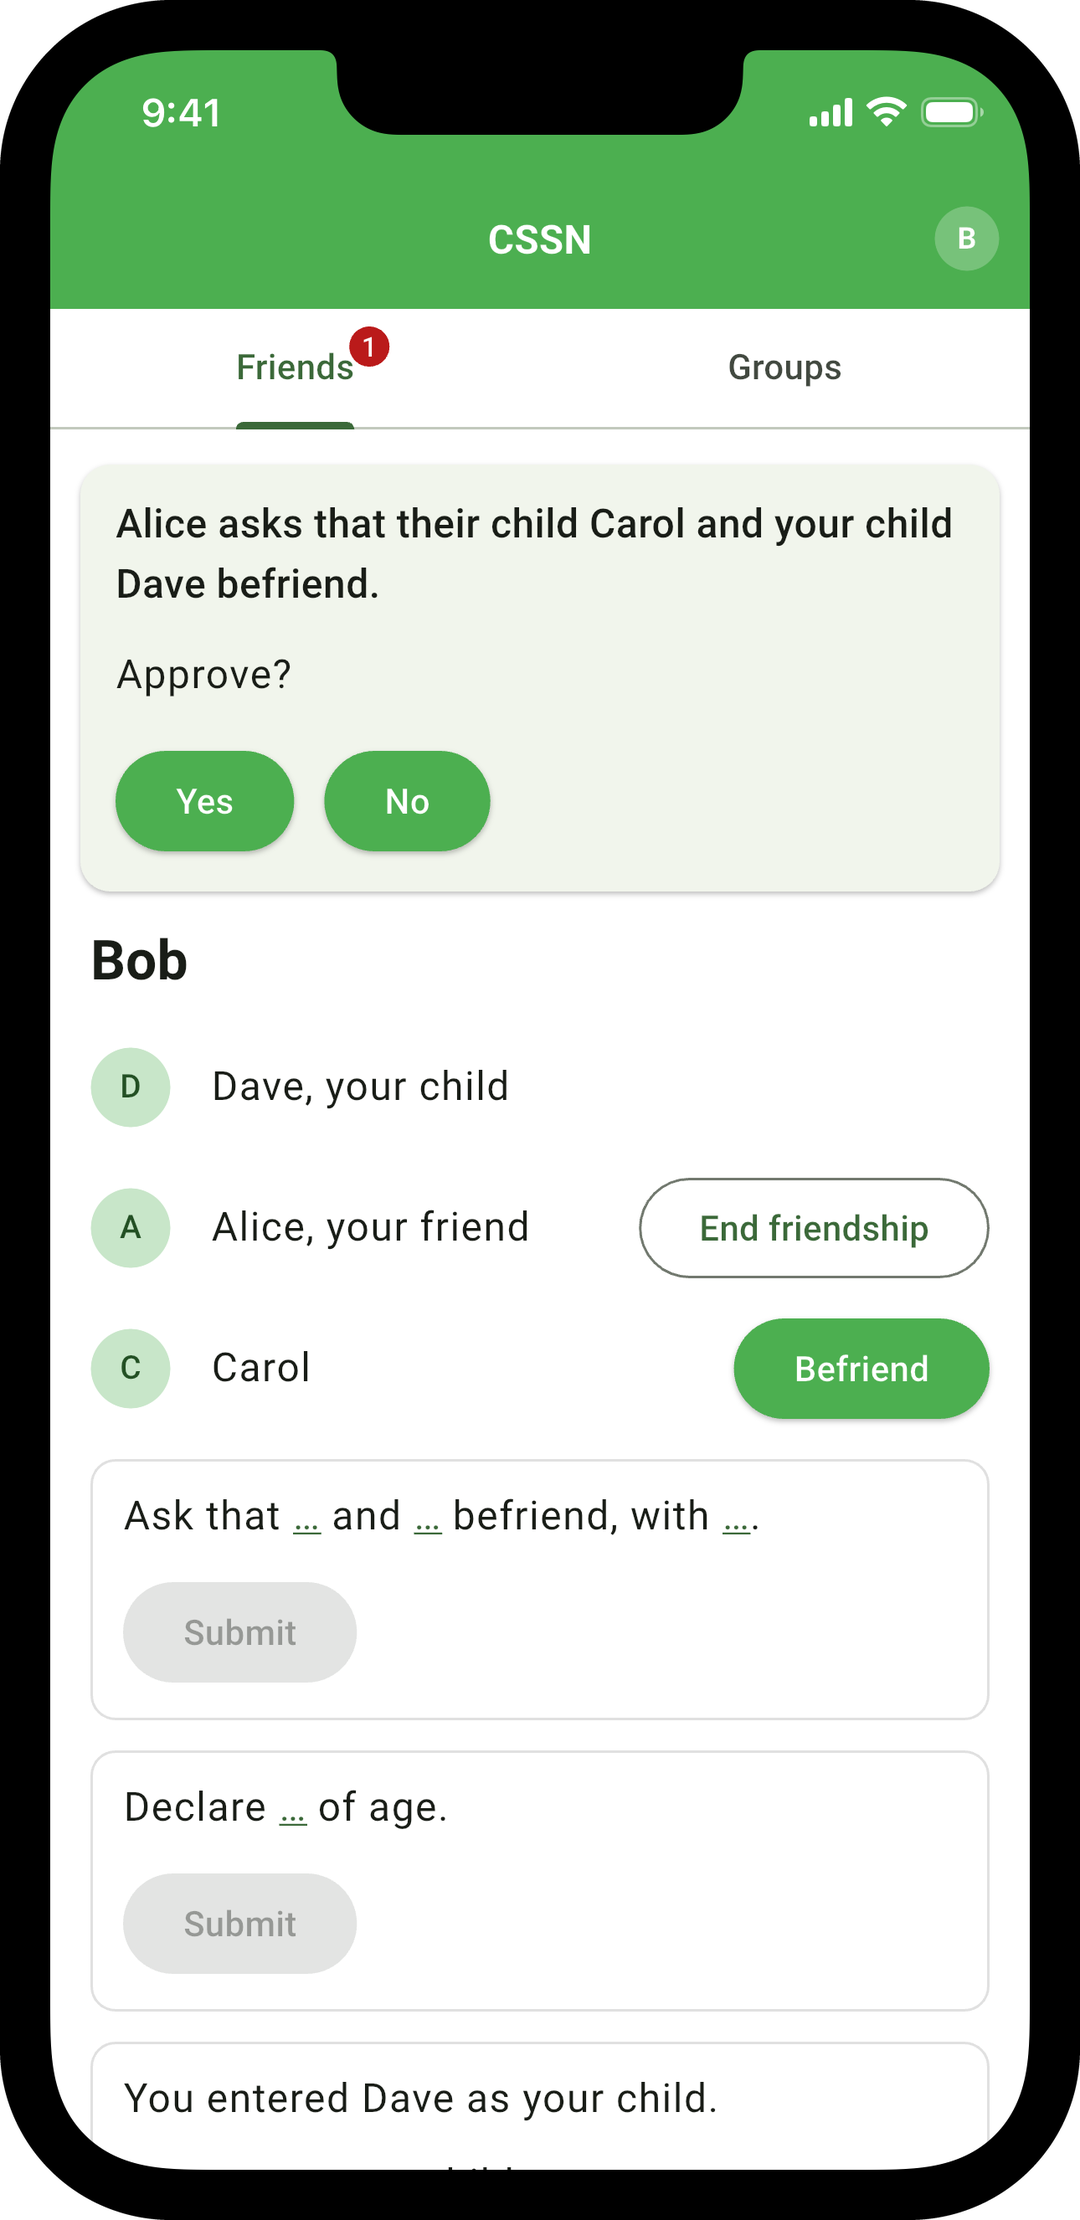
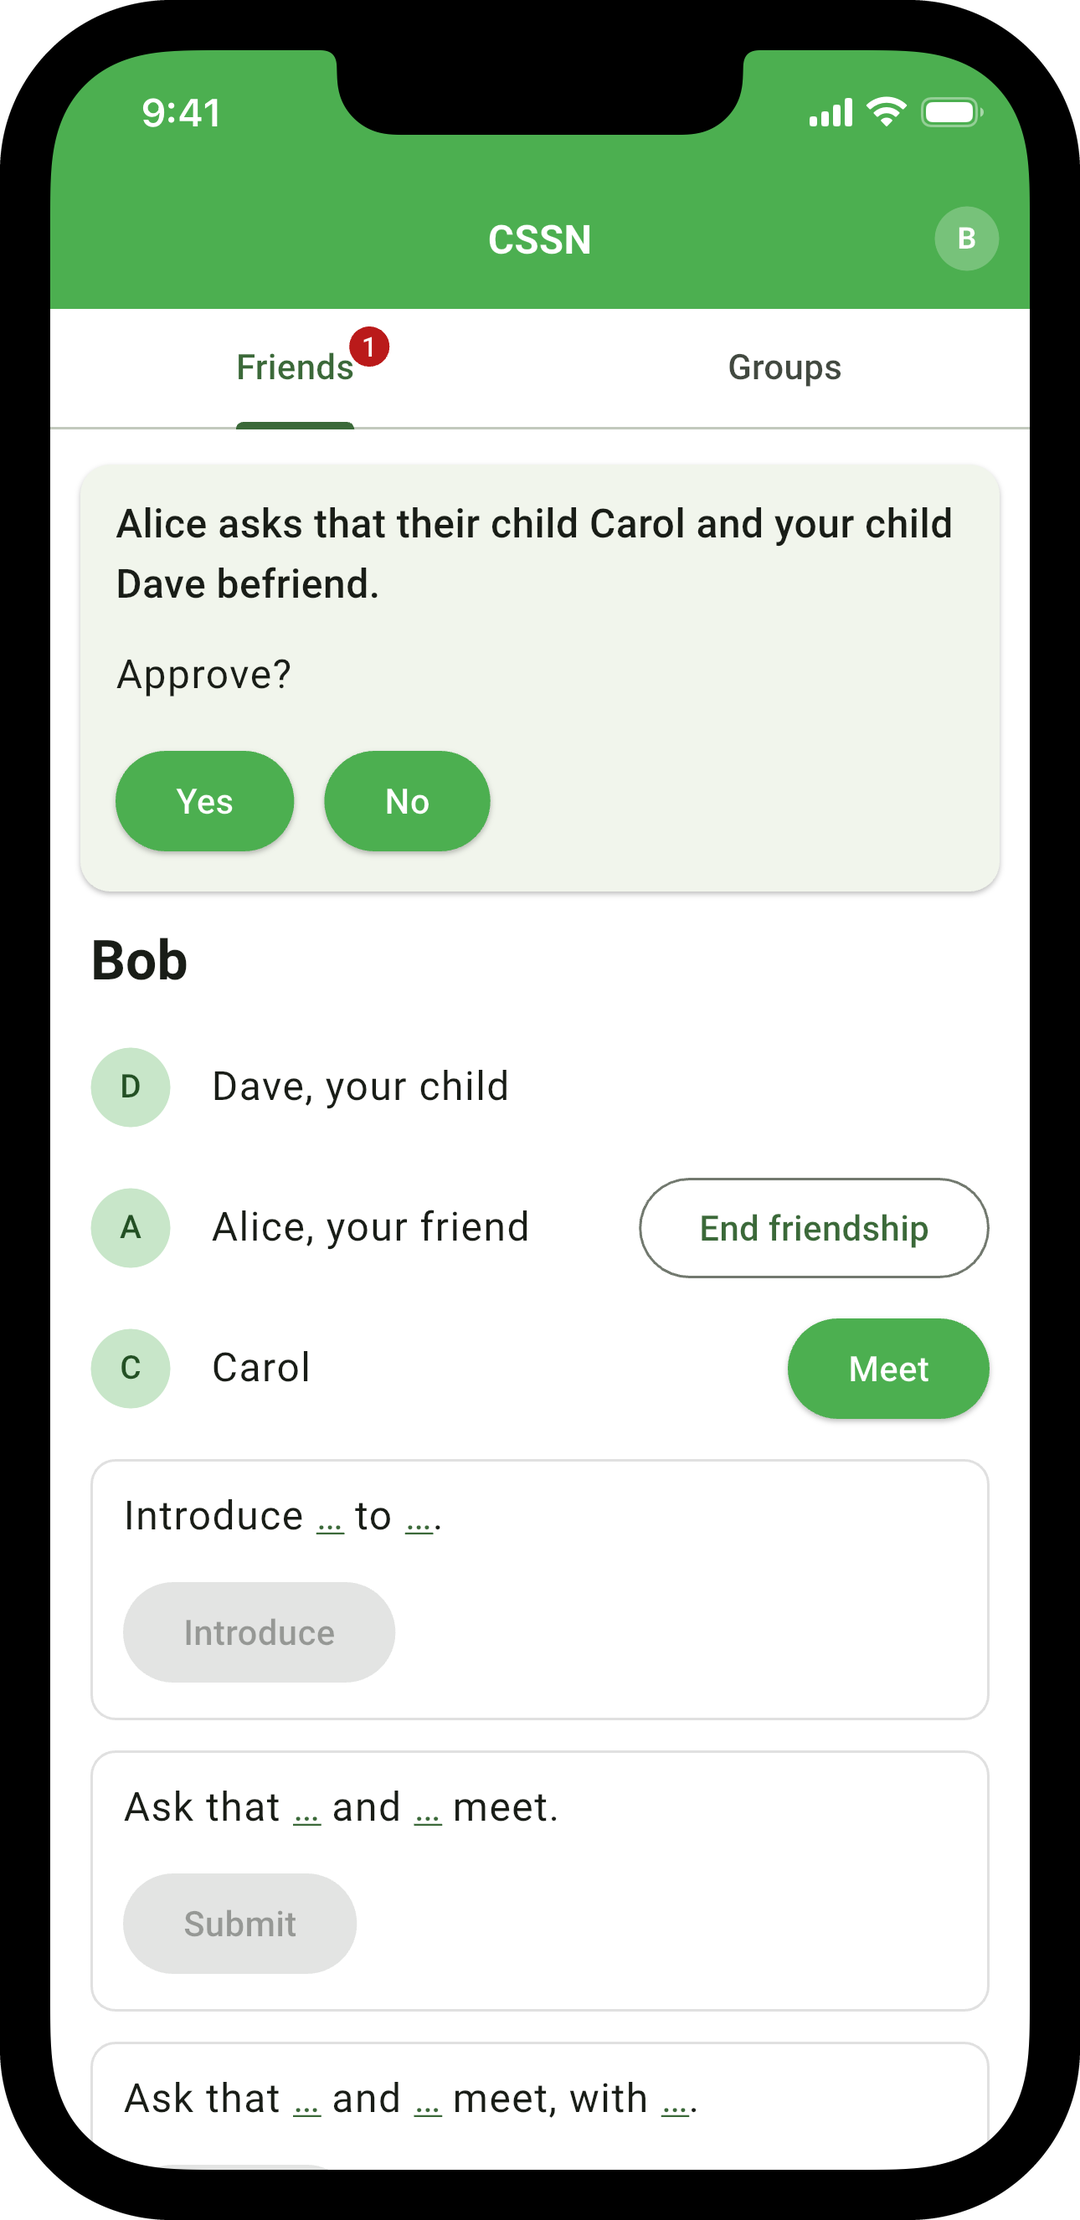
CSSN's Figure 3 re-taken on the iPhone 16e simulator (tool/sim_screens.sh) on the platform after GKK, the scenario gaining the meetings (CSSN #9 Cowork, Code_inbox 2026-10-20 19:44 UTC, item 3): Alice and Bob meet and befriend, Carol and Dave meet with Bob before they befriend; meet and introduce in

diff --git a/programs/cssn/figures/README.md b/programs/cssn/figures/README.md
@@ -12,9 +12,9 @@ python3 programs/cssn/figures/village.py cascade/CSSN/run.log
 
 ## Figure 3: the mini-app in the grassroots app
 
-`cssn-app-1.png` to `cssn-app-6.png` are the six screens of Figure 3 (CSSN, Section 4.6, "In the Grassroots App"), in the scenario of four people: Carol enters with her parent Alice, and Dave with his parent Bob; Alice and Bob befriend; Alice requests that Carol and Dave befriend, naming Bob, and Bob, Carol and Dave approve; Carol ends the friendship with Dave; and Bob declares Dave of age.  Each run has one person at their phone, whose screen is taken, and the other three scripted by `../person.glp` (the roles `fig_alice` to `fig_dave`).
+`cssn-app-1.png` to `cssn-app-6.png` are the six screens of Figure 3 (CSSN, Section 4.6, "In the Grassroots App"), in the scenario of four people, after GKK (CSSN #9 Cowork, Code_inbox.md, 2026-10-20 19:44 UTC, item 3): Carol enters with her parent Alice, and Dave with his parent Bob; Alice and Bob meet and befriend; Alice requests that Carol and Dave meet, naming Bob, and Bob, Carol and Dave approve; Alice requests that Carol and Dave befriend, naming Bob, and the three approve; Carol ends the friendship with Dave; and Bob declares Dave of age.  Each run has one person at their phone, whose screen is taken, and the other three scripted by `../person.glp` (the roles `fig_alice` to `fig_dave`); a scripted Alice looks at Carol's phone, which the test hands her, to request the befriending once Carol and Dave have met, her own state not changing by the meeting.
 
-The app declares its widgets in `../self.vglp`: `Approval =::= approval_sentence.` and `Menu =::= social_menu.`, drawn by the construct family (`glp_multiagent/lib/ui_runtime/named_widgets.dart` and `tab_screen.dart`) in the words Udi gave for the figure (reported by CSSN #8 Cowork, Code_inbox.md, 2026-10-20 10:10 UTC).  Each person known is drawn with what the person's state says of them, read off the last view their agent wrote; and each request is a sentence the person completes by choosing a person into each place, and Submit.
+The app declares its widgets in `../self.vglp`: `Approval =::= approval_sentence.` and `Menu =::= social_menu.`, drawn by the construct family (`glp_multiagent/lib/ui_runtime/named_widgets.dart` and `tab_screen.dart`) in the words Udi gave for the figure (reported by CSSN #8 Cowork, Code_inbox.md, 2026-10-20 10:10 UTC) and the words CSSN gave for its own acts (CSSN #9 Cowork, Code_inbox.md, 2026-10-20 19:44 UTC, item 4), its meetings of a child and a child's joining of a group; GKK's meet and introduce are drawn in GKK's words, as in every app that extends GKK (GSC #5 Cowork, Code_inbox.md, 2026-10-20 20:21 UTC): Meet on a person's row, "Alice asks to meet you in person.", and "Introduce … to …." with Introduce.  Each person known is drawn with what the person's state says of them, read off the last view their agent wrote; and each request is a sentence the person completes by choosing a person into each place, and Submit, or Introduce for an introduction.
 
 Each file is one phone's screen taken on the iOS Simulator, an iPhone 16e, 390 by 844 points at 3 pixels a point, its status bar at 9:41 with full signal, Wi-Fi and battery, in the light theme, set in Roboto.  The simulator's screenshot is the display alone, so it is framed as the phone, in a black bezel with rounded corners, 1080 by 2220 pixels on white, as the screens of the apps of GSC's contracts and GAI's are (`../../apps/*/screens/`).  From `glp_multiagent/`, under the Mac's run lock:
 
@@ -26,9 +26,9 @@ The script plays on the simulator the scenario of `glp_multiagent/test/apps_scre
 
 | File | What it shows |
 |---|---|
-| `cssn-app-1.png` | (1) Alice's menu, after she and Bob befriend: the persons her agent knows, "Carol, your child", "Bob, your friend" with End friendship, and "Dave", whom Bob's agent introduced to hers, with Befriend; under them the requests she may make, "Ask that … and … befriend, with …." and "Declare … of age.", each with Submit, and "Enter …." with Submit under "You asked to enter Carol."; and Add a person by key. |
-| `cssn-app-2.png` | (2) The same screen as Alice composes her request: "Ask that Carol and Dave befriend, with Bob." and Submit, which proposes `child_befriend(carol, dave, alice, bob)`; once sent, "You asked that Carol and Dave befriend, with Bob." |
-| `cssn-app-3.png` | (3) Bob's Friends tab, badged: "Alice asks that her child Carol and your child Dave befriend.", "Approve?", Yes and No at its top; under it "Dave, your child", "Alice, your friend" with End friendship, and "Carol" with Befriend, and his requests. |
-| `cssn-app-4.png` | (4) Carol's Friends tab, badged: "Alice asks that you and Dave befriend, with Dave's parent Bob.", "Befriend Dave?", Yes and No at its top; under it "Alice, your parent" and "Bob". |
-| `cssn-app-5.png` | (5) Carol's menu while Dave is her friend: "Alice, your parent", "Dave, your friend" with End friendship, and "Bob", whom Alice's agent introduced to hers; and Add a person by key.  A child composes no request. |
+| `cssn-app-1.png` | (1) Alice's menu, after she and Bob meet and befriend: the persons her agent knows, "Carol, your child", "Bob, your friend" with End friendship, and "Dave", whom Bob's agent introduced to hers, with Meet, she not having met him; under them the requests she may make, "Introduce … to …." with Introduce, "Ask that … and … meet.", "Ask that … and … meet, with …." and "Ask that … and … befriend, with ….", each with Submit. |
+| `cssn-app-2.png` | (2) The same screen after Carol and Dave meet, as Alice composes her request: "You asked that Carol and Dave meet, with Bob." over a fresh "Ask that … and … meet, with ….", and "Ask that Carol and Dave befriend, with Bob." and Submit, which proposes `child_befriend(carol, dave, alice, bob)`. |
+| `cssn-app-3.png` | (3) Bob's Friends tab, badged: "Alice asks that their child Carol and your child Dave befriend.", "Approve?", Yes and No at its top; under it "Dave, your child", "Alice, your friend" with End friendship, and "Carol" with Meet, and his requests. |
+| `cssn-app-4.png` | (4) Carol's Friends tab, badged: "Alice asks that you and Dave befriend, with Dave's parent Bob.", "Befriend Dave?", Yes and No at its top; under it "Alice, your parent", "Bob" and "Dave", and "Introduce … to …." with Introduce. |
+| `cssn-app-5.png` | (5) Carol's menu while Dave is her friend: "Alice, your parent", "Dave, your friend" with End friendship, and "Bob", whom Alice's agent introduced to hers; "Introduce … to …." with Introduce, the one request a child's state allows; and Add a person by key. |
 | `cssn-app-6.png` | (6) Bob's menu as he composes his request, after Carol ends her friendship with Dave: "Declare Dave of age." and Submit, which proposes `of_age(bob, dave)`; nobody is asked, and once sent, "Dave is of age." |
